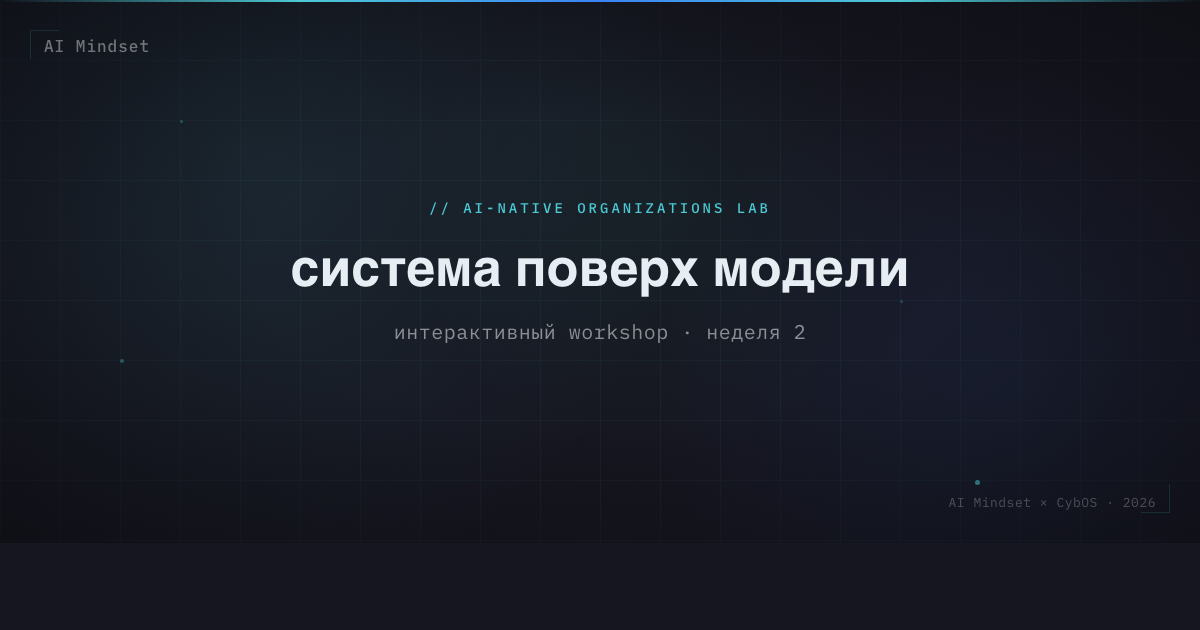
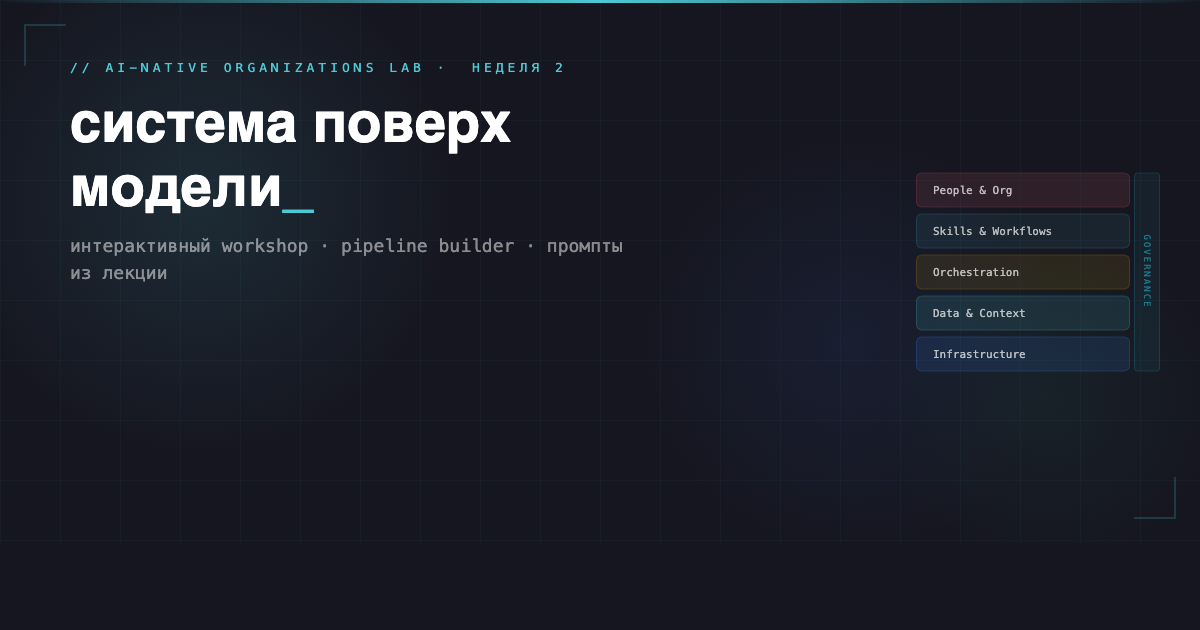
focus-w2: update OG cover for social preview

diff --git a/decks/focus-w2/og-cover.html b/decks/focus-w2/og-cover.html
@@ -1,223 +1,78 @@
 <!DOCTYPE html>
-<html lang="ru">
-<head>
+<html><head>
 <meta charset="UTF-8">
-<link rel="preconnect" href="https://fonts.googleapis.com">
-<link rel="preconnect" href="https://fonts.gstatic.com" crossorigin>
 <link href="https://fonts.googleapis.com/css2?family=Space+Grotesk:wght@600;700&family=IBM+Plex+Mono:wght@400;500&display=swap" rel="stylesheet">
 <style>
-html, body {
-  margin: 0; padding: 0;
-  width: 1200px; height: 630px;
-  overflow: hidden;
-  background: #161620;
-  font-family: 'IBM Plex Mono', monospace;
-  -webkit-font-smoothing: antialiased;
-}
+html, body { margin:0; padding:0; width:1200px; height:630px; overflow:hidden; background:#161620; font-family:'IBM Plex Mono',monospace; }
 
 /* Grid */
-body::before {
-  content: '';
-  position: absolute;
-  inset: 0;
-  background-image:
-    linear-gradient(rgba(77,201,212,1) 1px, transparent 1px),
-    linear-gradient(90deg, rgba(77,201,212,1) 1px, transparent 1px);
-  background-size: 60px 60px;
-  opacity: 0.05;
-  z-index: 0;
-  pointer-events: none;
-}
+body::before { content:''; position:absolute; inset:0; background-image: linear-gradient(rgba(77,201,212,0.04) 1px,transparent 1px), linear-gradient(90deg,rgba(77,201,212,0.04) 1px,transparent 1px); background-size:60px 60px; }
 
-/* Top accent line */
-.top-line {
-  position: absolute; top: 0; left: 0; right: 0; height: 2px;
-  background: linear-gradient(90deg, transparent, #4dc9d4, #3b82f6, #4dc9d4, transparent);
-  z-index: 10;
-}
+/* Mesh */
+.mesh { position:absolute; inset:0; }
+.mesh .g1 { position:absolute; width:600px; height:600px; top:-100px; left:-100px; background:radial-gradient(circle,rgba(77,201,212,0.12) 0%,transparent 60%); }
+.mesh .g2 { position:absolute; width:500px; height:500px; bottom:-50px; right:100px; background:radial-gradient(circle,rgba(59,130,246,0.08) 0%,transparent 60%); }
+.mesh .g3 { position:absolute; width:400px; height:400px; top:200px; right:-50px; background:radial-gradient(circle,rgba(56,217,169,0.06) 0%,transparent 60%); }
 
-/* Mesh gradients */
-.mesh-g1 {
-  position: absolute; width: 900px; height: 900px; top: -300px; left: -200px;
-  background: radial-gradient(circle, rgba(77,201,212,0.10) 0%, transparent 70%);
-  z-index: 0;
-}
-.mesh-g2 {
-  position: absolute; width: 700px; height: 700px; bottom: -200px; right: -150px;
-  background: radial-gradient(circle, rgba(59,130,246,0.08) 0%, transparent 70%);
-  z-index: 0;
-}
-.mesh-g3 {
-  position: absolute; width: 500px; height: 500px; top: 40%; left: 55%;
-  transform: translate(-50%, -50%);
-  background: radial-gradient(circle, rgba(56,217,169,0.05) 0%, transparent 70%);
-  z-index: 0;
-}
-
-/* Vignette */
-.vignette {
-  position: absolute; inset: 0; z-index: 1; pointer-events: none;
-  background: radial-gradient(ellipse at center, transparent 40%, rgba(10,10,15,0.6) 100%);
-}
-
-/* Content */
-.content {
-  position: absolute; top: 0; left: 0; bottom: 0; width: 700px; z-index: 5;
-  display: flex; flex-direction: column; justify-content: center;
-  padding: 60px 60px 60px 80px;
-}
-
-/* Logo top-left */
-.logo-tl {
-  position: absolute; top: 36px; left: 44px; z-index: 10;
-  font-family: 'IBM Plex Mono', monospace;
-  font-size: 16px; font-weight: 500;
-  color: rgba(255,255,255,0.4);
-  letter-spacing: 1px;
-}
-
-/* Date top-right */
-.date-tr {
-  position: absolute; top: 36px; right: 44px; z-index: 10;
-  font-family: 'IBM Plex Mono', monospace;
-  font-size: 14px; color: rgba(77,201,212,0.6);
-  letter-spacing: 1px;
-}
-
-/* Bottom-right credits */
-.credits-br {
-  position: absolute; bottom: 32px; right: 44px; z-index: 10;
-  font-family: 'IBM Plex Mono', monospace;
-  font-size: 13px; color: rgba(255,255,255,0.25);
-  letter-spacing: 0.5px;
-}
-
-/* Label */
-.label {
-  font-family: 'IBM Plex Mono', monospace;
-  font-size: 14px; font-weight: 500;
-  text-transform: uppercase;
-  letter-spacing: 3px;
-  color: #4dc9d4;
-  margin-bottom: 20px;
-}
-
-/* Title */
-.title {
-  font-family: 'Space Grotesk', sans-serif;
-  font-size: 48px; font-weight: 700;
-  color: #e6edf3;
-  line-height: 1.2;
-  margin-bottom: 16px;
-}
-
-/* Subtitle */
-.subtitle {
-  font-family: 'IBM Plex Mono', monospace;
-  font-size: 18px; font-weight: 400;
-  color: rgba(255,255,255,0.5);
-  letter-spacing: 0.5px;
-  line-height: 1.6;
-}
+/* Top line */
+.top-line { position:absolute; top:0; left:0; right:0; height:3px; background:linear-gradient(90deg,transparent,#4dc9d4,transparent); }
 
 /* Corner brackets */
-.corner-tl, .corner-br {
-  position: absolute; width: 28px; height: 28px;
-  border-color: rgba(77,201,212,0.15); border-style: solid;
-  z-index: 10;
-}
-.corner-tl { top: 30px; left: 30px; border-width: 1px 0 0 1px; }
-.corner-br { bottom: 30px; right: 30px; border-width: 0 1px 1px 0; }
+.bracket-tl { position:absolute; top:24px; left:24px; width:40px; height:40px; border-left:2px solid rgba(77,201,212,0.2); border-top:2px solid rgba(77,201,212,0.2); }
+.bracket-br { position:absolute; bottom:24px; right:24px; width:40px; height:40px; border-right:2px solid rgba(77,201,212,0.2); border-bottom:2px solid rgba(77,201,212,0.2); }
 
-/* Glow dots */
-.glow-dot {
-  position: absolute; width: 4px; height: 4px; border-radius: 50%;
-  background: #4dc9d4; z-index: 3; opacity: 0.4;
-}
+/* Content */
+.content { position:relative; z-index:10; padding:60px 70px; height:100%; display:flex; flex-direction:column; justify-content:space-between; box-sizing:border-box; }
+.label { font-size:13px; letter-spacing:4px; text-transform:uppercase; color:#4dc9d4; margin-bottom:16px; }
+h1 { font-family:'Space Grotesk',sans-serif; font-size:56px; font-weight:700; color:#fff; line-height:1.15; margin:0 0 12px; max-width:620px; }
+h1 .teal { color:#4dc9d4; }
+.subtitle { font-size:18px; color:rgba(255,255,255,0.5); line-height:1.5; max-width:580px; }
+.bottom { display:flex; justify-content:space-between; align-items:flex-end; }
+.brand { display:flex; align-items:center; gap:10px; }
+.brand img { height:32px; opacity:0.5; }
+.brand span { font-size:12px; color:rgba(255,255,255,0.35); letter-spacing:2px; }
+.date { font-size:13px; color:rgba(255,255,255,0.3); }
 
-/* 6-layer stack diagram */
-.layer-stack {
-  position: absolute; right: 60px; top: 50%; transform: translateY(-50%);
-  z-index: 5; display: flex; flex-direction: column; gap: 4px;
-  width: 400px;
-}
-.layer-bar {
-  display: flex; align-items: center; gap: 10px;
-  padding: 10px 16px; border-radius: 6px;
-  font-family: 'IBM Plex Mono', monospace;
-  font-size: 12px; font-weight: 500;
-  letter-spacing: 0.5px;
-}
-.layer-num {
-  font-size: 11px; opacity: 0.5; width: 20px; flex-shrink: 0;
-}
-.layer-name {
-  font-family: 'Space Grotesk', sans-serif;
-  font-size: 14px; font-weight: 600;
-}
-.gov-bar {
-  position: absolute; right: 20px; top: 50%; transform: translateY(-50%);
-  z-index: 6; width: 36px; height: 260px;
-  border-radius: 6px; display: flex; align-items: center; justify-content: center;
-  writing-mode: vertical-rl; text-orientation: mixed;
-  font-family: 'Space Grotesk', sans-serif;
-  font-size: 13px; font-weight: 600; letter-spacing: 2px;
-}
+/* 6-layer mini stack on right */
+.stack { position:absolute; right:70px; top:50%; transform:translateY(-50%); display:flex; flex-direction:column; gap:6px; z-index:10; }
+.stack-layer { width:180px; padding:10px 16px; border-radius:6px; font-size:11px; font-family:'IBM Plex Mono',monospace; color:rgba(255,255,255,0.7); border:1px solid rgba(77,201,212,0.15); }
+.stack-layer.l1 { background:rgba(59,130,246,0.12); border-color:rgba(59,130,246,0.2); }
+.stack-layer.l2 { background:rgba(77,201,212,0.12); border-color:rgba(77,201,212,0.2); }
+.stack-layer.l3 { background:rgba(200,146,0,0.12); border-color:rgba(200,146,0,0.2); }
+.stack-layer.l4 { background:rgba(77,201,212,0.08); border-color:rgba(77,201,212,0.15); }
+.stack-layer.l5 { background:rgba(255,107,107,0.1); border-color:rgba(255,107,107,0.15); }
+.stack-gov { position:absolute; right:-30px; top:0; bottom:0; width:24px; border:1px solid rgba(34,211,238,0.15); border-radius:4px; background:rgba(34,211,238,0.06); display:flex; align-items:center; justify-content:center; }
+.stack-gov span { writing-mode:vertical-rl; font-size:9px; color:rgba(34,211,238,0.5); letter-spacing:2px; }
 </style>
 </head>
 <body>
-  <div class="top-line"></div>
-  <div class="mesh-g1"></div>
-  <div class="mesh-g2"></div>
-  <div class="mesh-g3"></div>
-  <div class="vignette"></div>
-  <div class="corner-tl"></div>
-  <div class="corner-br"></div>
+<div class="mesh"><div class="g1"></div><div class="g2"></div><div class="g3"></div></div>
+<div class="top-line"></div>
+<div class="bracket-tl"></div>
+<div class="bracket-br"></div>
 
-  <!-- Glow dots -->
-  <div class="glow-dot" style="top:120px;left:180px;opacity:0.3;width:3px;height:3px;"></div>
-  <div class="glow-dot" style="top:480px;right:520px;opacity:0.5;width:5px;height:5px;"></div>
-  <div class="glow-dot" style="top:300px;left:600px;opacity:0.25;width:3px;height:3px;"></div>
-  <div class="glow-dot" style="bottom:180px;left:120px;opacity:0.35;width:4px;height:4px;"></div>
-  <div class="glow-dot" style="top:200px;right:200px;opacity:0.2;width:3px;height:3px;"></div>
-  <div class="glow-dot" style="bottom:120px;right:300px;opacity:0.3;width:4px;height:4px;"></div>
-
-  <div class="logo-tl">AI Mindset</div>
-  <div class="date-tr">31 марта 2026</div>
-  <div class="credits-br">AI Mindset &times; CybOS &middot; @sgershuni</div>
-
-  <div class="content">
-    <div class="label">// AI-NATIVE ORGANIZATIONS LAB &middot; НЕДЕЛЯ 2</div>
-    <div class="title">система поверх модели: архитектура</div>
-    <div class="subtitle">6 слоёв &middot; pipeline builder &middot; карта автономности &middot; VSM &middot; инструменты</div>
+<div class="content">
+  <div>
+    <div class="label">// AI-Native Organizations Lab &middot; &nbsp;&#1053;&#1077;&#1076;&#1077;&#1083;&#1103; 2</div>
+    <h1>&#1089;&#1080;&#1089;&#1090;&#1077;&#1084;&#1072; &#1087;&#1086;&#1074;&#1077;&#1088;&#1093;<br>&#1084;&#1086;&#1076;&#1077;&#1083;&#1080;<span class="teal">_</span></h1>
+    <div class="subtitle">&#1080;&#1085;&#1090;&#1077;&#1088;&#1072;&#1082;&#1090;&#1080;&#1074;&#1085;&#1099;&#1081; workshop &middot; pipeline builder &middot; &#1087;&#1088;&#1086;&#1084;&#1087;&#1090;&#1099; &#1080;&#1079; &#1083;&#1077;&#1082;&#1094;&#1080;&#1080;</div>
   </div>
-
-  <!-- 6-layer stack -->
-  <div class="layer-stack">
-    <div class="layer-bar" style="background:rgba(255,182,193,0.12);">
-      <span class="layer-num">05</span>
-      <span class="layer-name" style="color:#f0a0a8;">People & organization</span>
+  <div class="bottom">
+    <div class="brand">
+      <img src="../../logo.png" alt="">
+      <span>AI MINDSET &times; CYBOS</span>
     </div>
-    <div class="layer-bar" style="background:rgba(255,223,130,0.12);">
-      <span class="layer-num">04</span>
-      <span class="layer-name" style="color:#e8c555;">Skills & workflows</span>
-    </div>
-    <div class="layer-bar" style="background:rgba(255,195,0,0.12);">
-      <span class="layer-num">03</span>
-      <span class="layer-name" style="color:#f0b030;">Orchestration</span>
-    </div>
-    <div class="layer-bar" style="background:rgba(100,210,180,0.12);">
-      <span class="layer-num">02</span>
-      <span class="layer-name" style="color:#64d2b4;">Data & context</span>
-    </div>
-    <div class="layer-bar" style="background:rgba(180,170,220,0.12);">
-      <span class="layer-num">01</span>
-      <span class="layer-name" style="color:#b4aade;">Infrastructure</span>
-    </div>
+    <div class="date">31 &#1084;&#1072;&#1088;&#1090;&#1072; 2026</div>
   </div>
+</div>
 
-  <div class="gov-bar" style="background:rgba(140,170,230,0.12);color:rgba(140,170,230,0.7);">
-    GOVERNANCE
-  </div>
-</body>
-</html>
+<div class="stack">
+  <div class="stack-layer l5">People & Org</div>
+  <div class="stack-layer l4">Skills & Workflows</div>
+  <div class="stack-layer l3">Orchestration</div>
+  <div class="stack-layer l2">Data & Context</div>
+  <div class="stack-layer l1">Infrastructure</div>
+  <div class="stack-gov"><span>GOVERNANCE</span></div>
+</div>
+
+</body></html>
